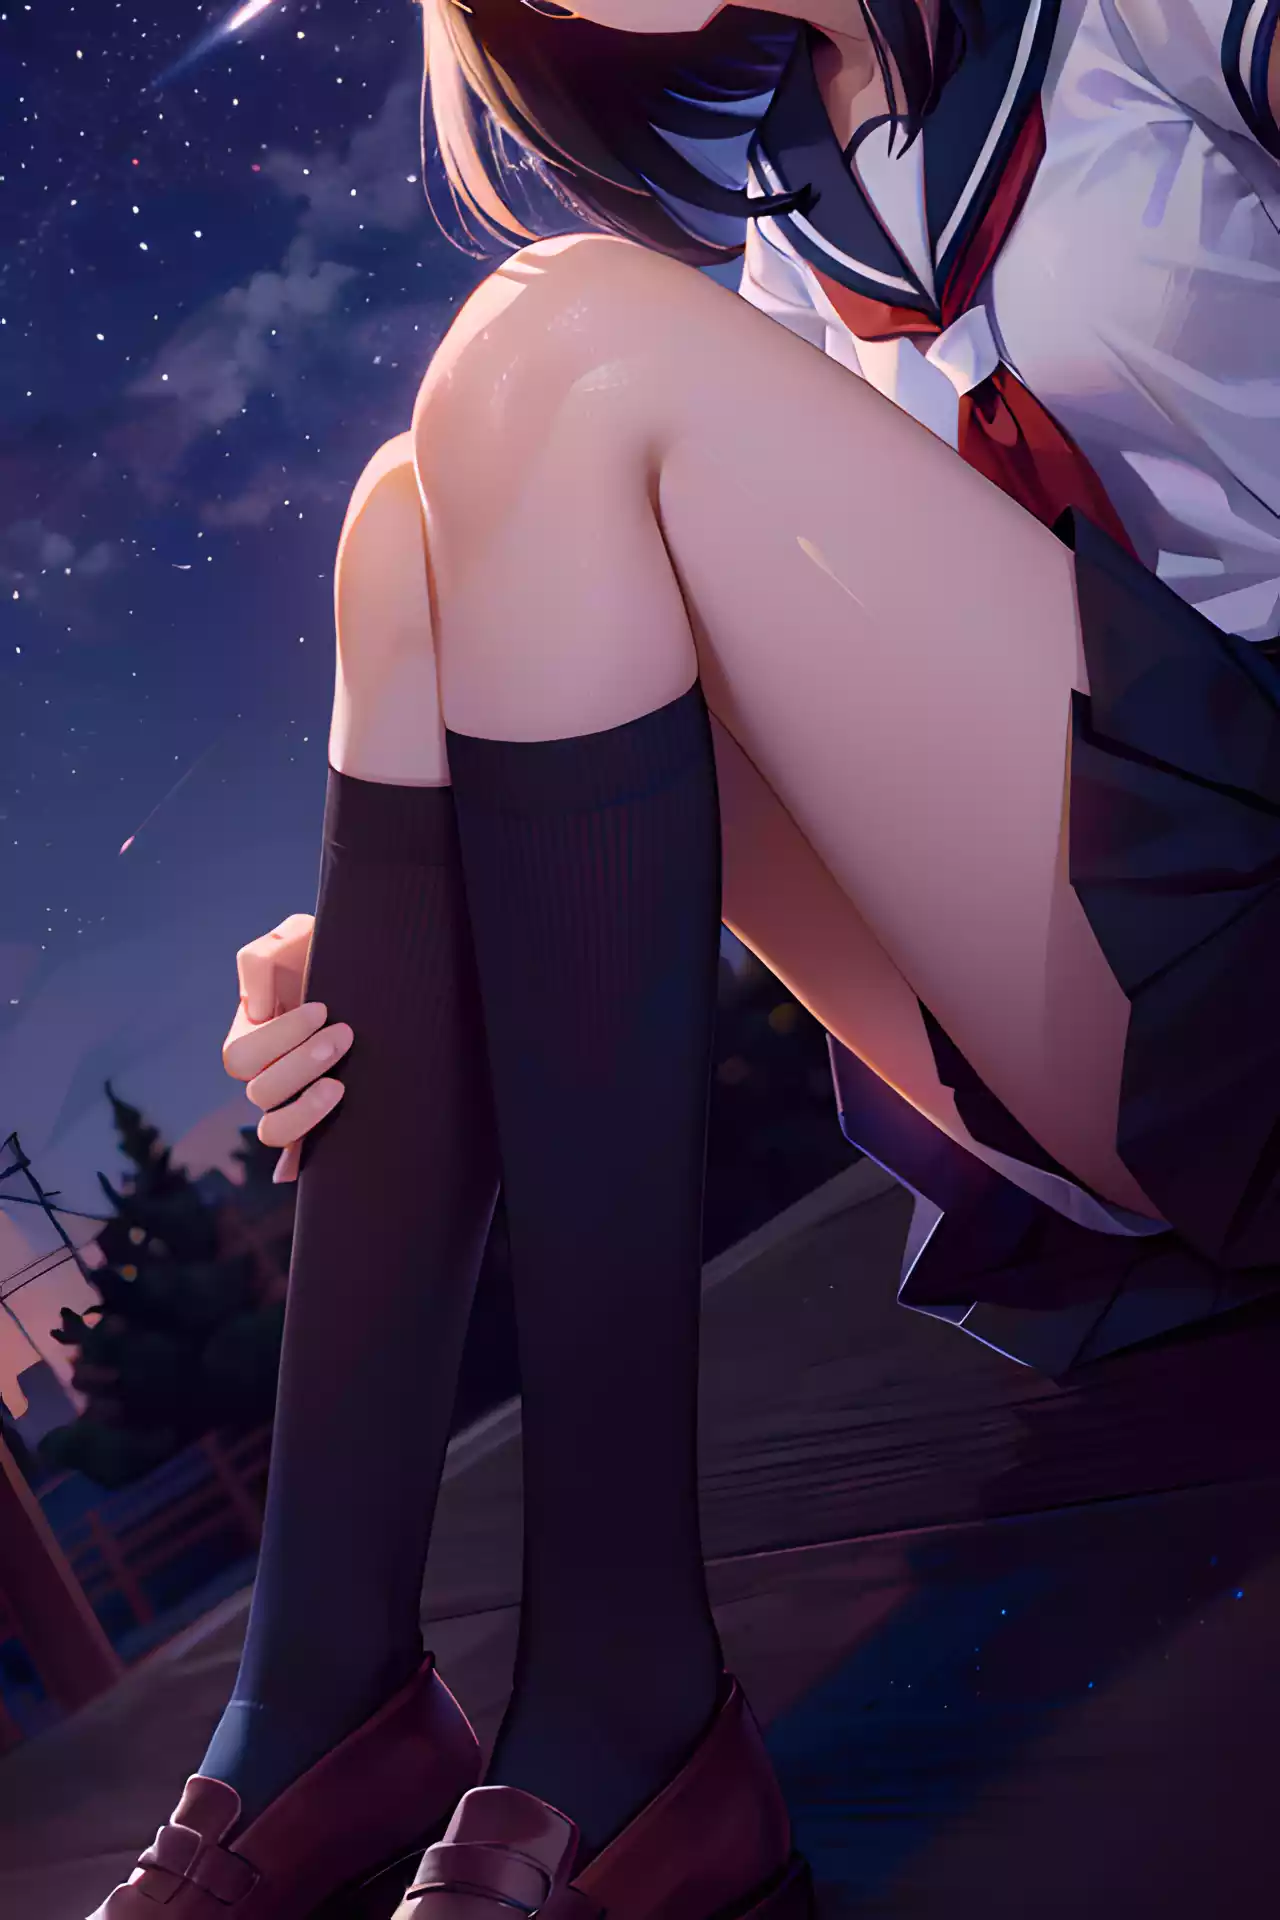
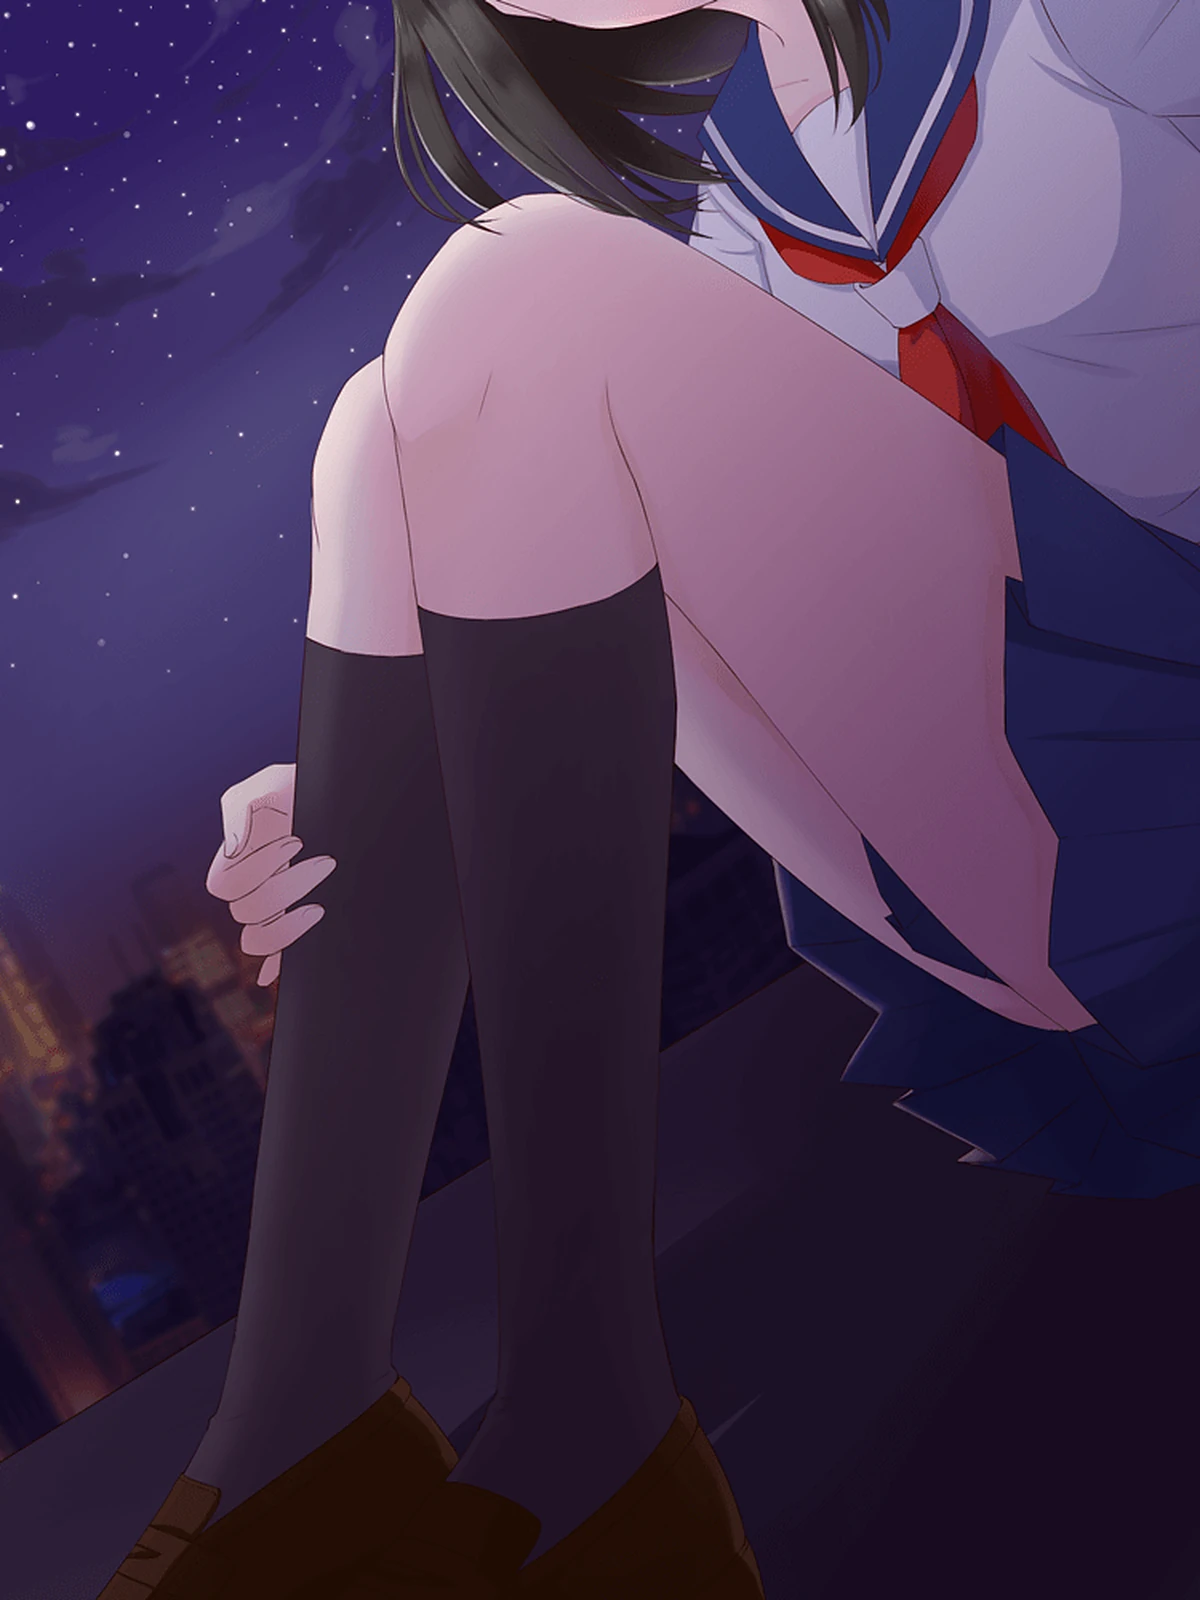
fix(miko-web): 图鉴 S1-01-n 换回原版插画；角色头像下拉加实时预览

diff --git a/miko-web/app.js b/miko-web/app.js
@@ -805,6 +805,21 @@
   /* ---------------- 设置 ---------------- */
   function avatarOptions() { return AVATARS.concat(['Lily', '未知用户']); }
 
+  // 角色头像下拉旁的小预览（选「字母」时显示首字母）
+  function syncNpcPrev(who, name) {
+    var img = document.querySelector('.npc-prev[data-prev="' + who + '"]');
+    if (!img) return;
+    if (name === 'letter') {
+      img.removeAttribute('src');
+      img.classList.add('empty');
+      img.textContent = who.slice(0, 1);
+    } else {
+      img.classList.remove('empty');
+      img.textContent = '';
+      img.src = asset('icon/' + name + '.webp');
+    }
+  }
+
   function renderAvatarPicker() {
     $$('#view-settings select[data-npc]').forEach(function (sel) {
       var who = sel.getAttribute('data-npc');
@@ -813,8 +828,10 @@
           return '<option value="' + esc(n) + '">' + esc(n) + '</option>';
         }).join('');
       sel.value = (st.settings.npc || {})[who] || (NPC_DEFAULT[who] || 'letter');
+      syncNpcPrev(who, sel.value);
       sel.onchange = function () {
         st.settings.npc[who] = this.value;
+        syncNpcPrev(who, this.value);
         save();
         refreshAvatars(who);
       };

diff --git a/miko-web/index.html b/miko-web/index.html
@@ -180,10 +180,10 @@
         <span class="set-hint">按喜好更换</span>
       </div>
       <div class="npc-row">
-        <label><span>Miko</span><select data-npc="Miko"></select></label>
-        <label><span>Iris</span><select data-npc="Iris"></select></label>
-        <label><span>Lily</span><select data-npc="Lily"></select></label>
-        <label><span>未知用户</span><select data-npc="未知用户"></select></label>
+        <label><img class="npc-prev" data-prev="Miko" alt=""><span>Miko</span><select data-npc="Miko"></select></label>
+        <label><img class="npc-prev" data-prev="Iris" alt=""><span>Iris</span><select data-npc="Iris"></select></label>
+        <label><img class="npc-prev" data-prev="Lily" alt=""><span>Lily</span><select data-npc="Lily"></select></label>
+        <label><img class="npc-prev" data-prev="未知用户" alt=""><span>未知用户</span><select data-npc="未知用户"></select></label>
       </div>
     </div>
 

diff --git a/miko-web/style.css b/miko-web/style.css
@@ -426,3 +426,10 @@ select{
 .my-ava-form .ghost-btn{padding:8px 10px;font-size:12.5px}
 .ava.ava-link{cursor:pointer}
 .ava.ava-link:hover{box-shadow:0 0 0 2px rgba(122,92,255,.55)}
+.npc-prev{
+  width:34px;height:34px;border-radius:50%;object-fit:cover;flex:none;
+  background:#101018;border:1px solid rgba(255,255,255,.14);
+}
+.npc-prev.empty{
+  color:#6b6880;font-size:12.5px;display:flex;align-items:center;justify-content:center;
+}
